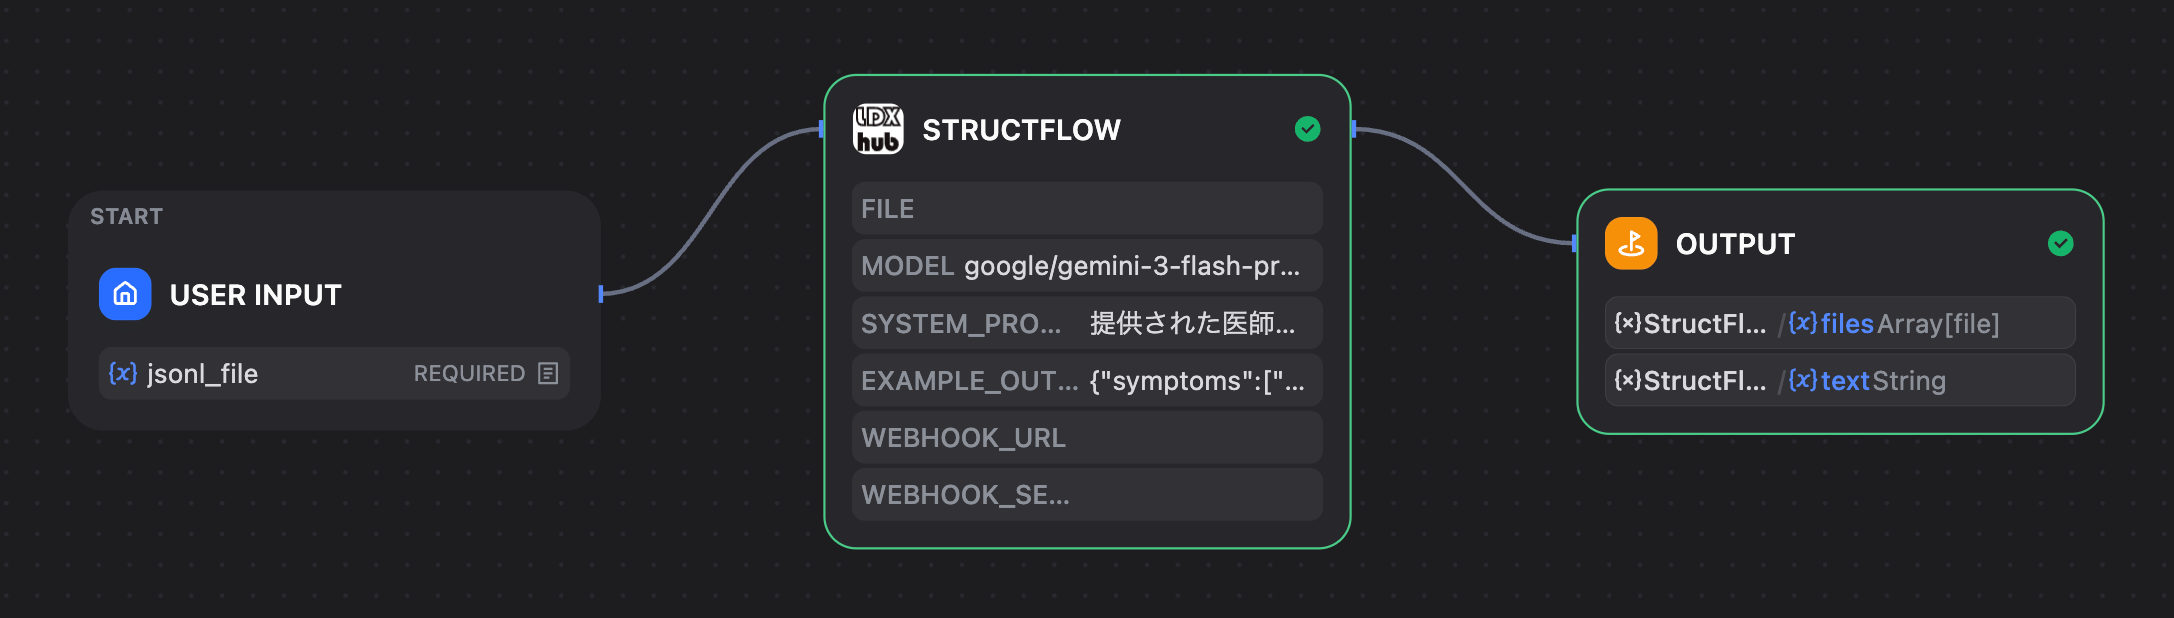
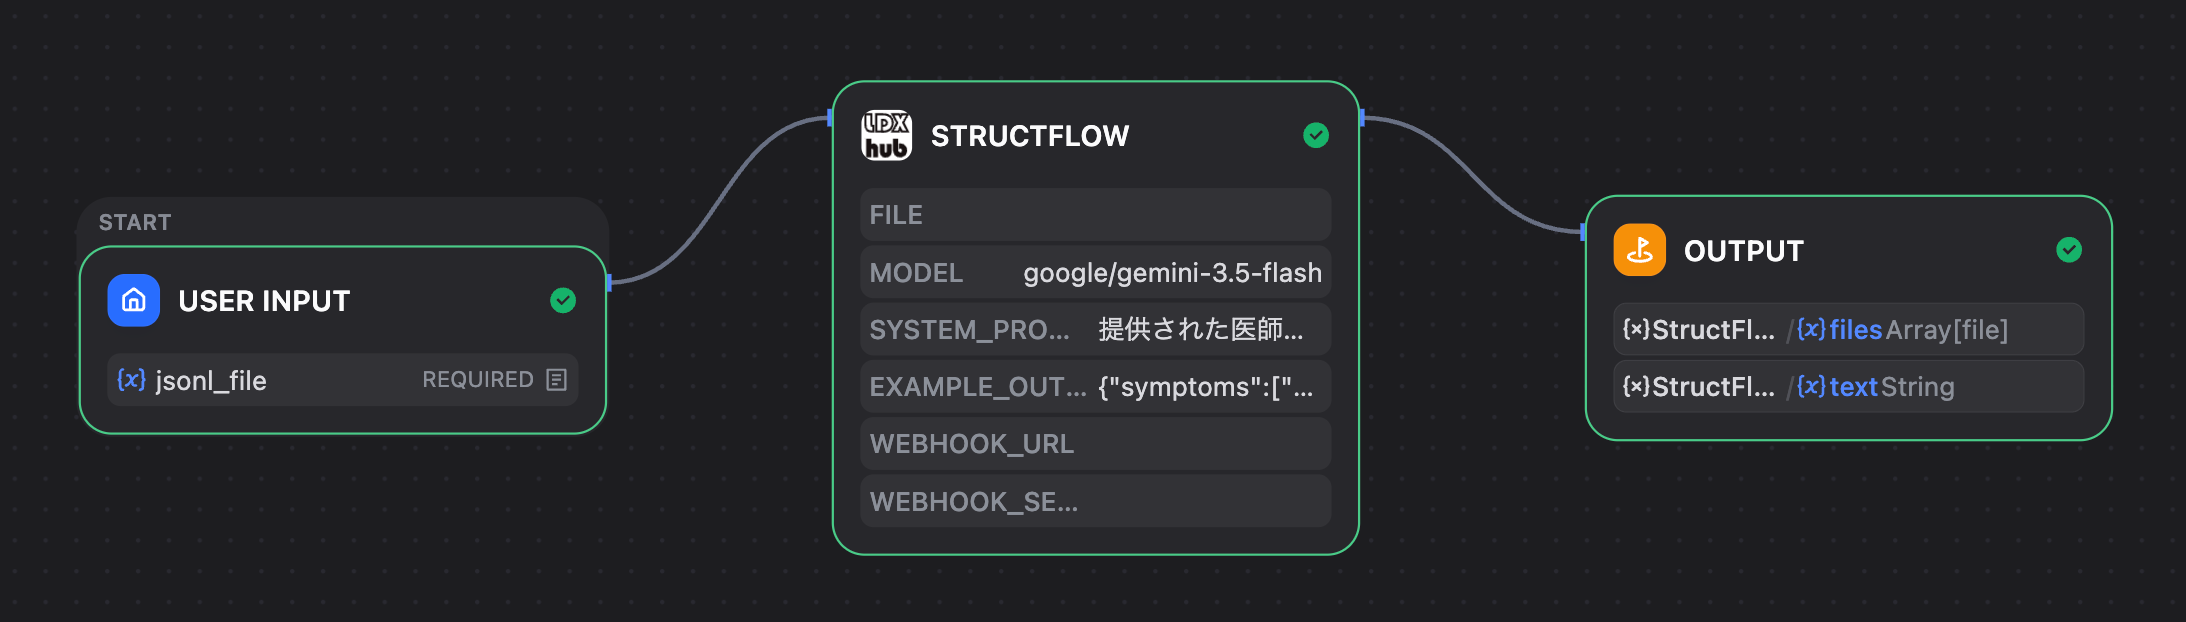
feat: add Claude Opus 4.8 and refresh benchmark with Gemini 3.5 Flash (v0.0.15)

diff --git a/readme/README_ja_JP.md b/readme/README_ja_JP.md
@@ -91,9 +91,9 @@ RefineLoop は StructFlow と同じ反復改善エンジンの上に作られて
 
 XLIFF のタグ整合性（`<ph>`, `<bpt>`, `<ept>`, `<it>` など）は各リビジョン後に検証されます。リビジョンがタグ構造を壊した場合、そのリビジョンは失敗扱いになり、次のリビジョンで再挑戦します。最終的な XLIFF は CAT ツールにそのまま取り込める状態を保ちます。
 
-**実測ベンチマーク:** BERT 論文の翻訳（原文約 65,000 文字、XLIFF タグ込みで約 145,000 文字）を Gemini 3 Flash Preview と `max_revisions=6` で改善した結果、Dify Cloud 上でアップロード・ダウンロードを含めて **3 分 46 秒** で完走しました。精度の高いモデルを使えば収束が早く、より短時間で完了します。
+**実測ベンチマーク:** BERT 論文の翻訳（原文約 65,000 文字、XLIFF タグ込みで約 145,000 文字）を Gemini 3.5 Flash と `max_revisions=6` で改善した結果、Dify Cloud 上でアップロード・ダウンロードを含めて **4 分 9 秒** で完走しました。実所要時間はモデル・コンテンツ・収束挙動によって変動します。
 
-![RefineLoop が 3 m 45.912 s で完走したテスト実行のトレース](https://raw.githubusercontent.com/ldxhub-io/dify-nodes-ldxhub/main/_assets/screenshots/run.png)
+![RefineLoop が 4 m 9.156 s で完走したテスト実行のトレース](https://raw.githubusercontent.com/ldxhub-io/dify-nodes-ldxhub/main/_assets/screenshots/run.png)
 
 ### 出力モード
 
@@ -132,7 +132,7 @@ API キーは Dify によって暗号化（PKCS1_OAEP）されてワークスペ
 
 ## 長時間ジョブ
 
-プラグインは LDX hub の API をポーリングしてジョブの完了を待ちます。通常のワークロードならこれで十分です（前述の BERT 論文のベンチマークも 4 分以内で完走しています）。
+プラグインは LDX hub の API をポーリングしてジョブの完了を待ちます。通常のワークロードならこれで十分です（前述の BERT 論文のベンチマークも約 4 分で完走しています）。
 
 例外的に長時間かかるジョブで Dify の実行タイムアウトを超える可能性がある場合のために、`webhook_url` パラメータをオプションで用意しています。プラグインがこの URL を LDX hub に渡し、サーバ側がジョブ完了時に指定 URL へ通知します。
 

diff --git a/README.md b/README.md
@@ -93,9 +93,9 @@ That means the number of engine invocations is bounded by `(language pairs × re
 
 XLIFF tag integrity (`<ph>`, `<bpt>`, `<ept>`, `<it>`, etc.) is validated after every revision. If a revision breaks the tag structure, that revision is marked as failed and the next round retries — your final XLIFF stays compatible with your CAT tool.
 
-**Real-world benchmark:** A translation of the BERT paper (about 65,000 source characters; approximately 145,000 with XLIFF tags) was refined with Gemini 3 Flash Preview and `max_revisions=6` in **3 minutes 46 seconds** end-to-end on Dify Cloud, including upload and download. Higher-accuracy models typically converge in fewer rounds and finish faster.
+**Real-world benchmark:** A translation of the BERT paper (about 65,000 source characters; approximately 145,000 with XLIFF tags) was refined with Gemini 3.5 Flash and `max_revisions=6` in **4 minutes 9 seconds** end-to-end on Dify Cloud, including upload and download. Actual time varies by model, content, and convergence behavior.
 
-![Test run trace showing RefineLoop completed in 3 m 45.912 s](https://raw.githubusercontent.com/ldxhub-io/dify-nodes-ldxhub/main/_assets/screenshots/run.png)
+![Test run trace showing RefineLoop completed in 4 m 9.156 s](https://raw.githubusercontent.com/ldxhub-io/dify-nodes-ldxhub/main/_assets/screenshots/run.png)
 
 ### Output Modes
 
@@ -134,7 +134,7 @@ The model lineup is maintained dynamically on the LDX hub side, but the plugin e
 
 ## Long-Running Jobs
 
-The plugin polls the LDX hub API for job completion. For typical workloads this is sufficient — the BERT paper benchmark above completed in under 4 minutes.
+The plugin polls the LDX hub API for job completion. For typical workloads this is sufficient — the BERT paper benchmark above completed in about 4 minutes.
 
 For exceptionally long jobs that may exceed Dify's execution timeout, an optional `webhook_url` parameter is exposed. The plugin transmits this to LDX hub so the server can notify a URL of your choice on completion.
 
